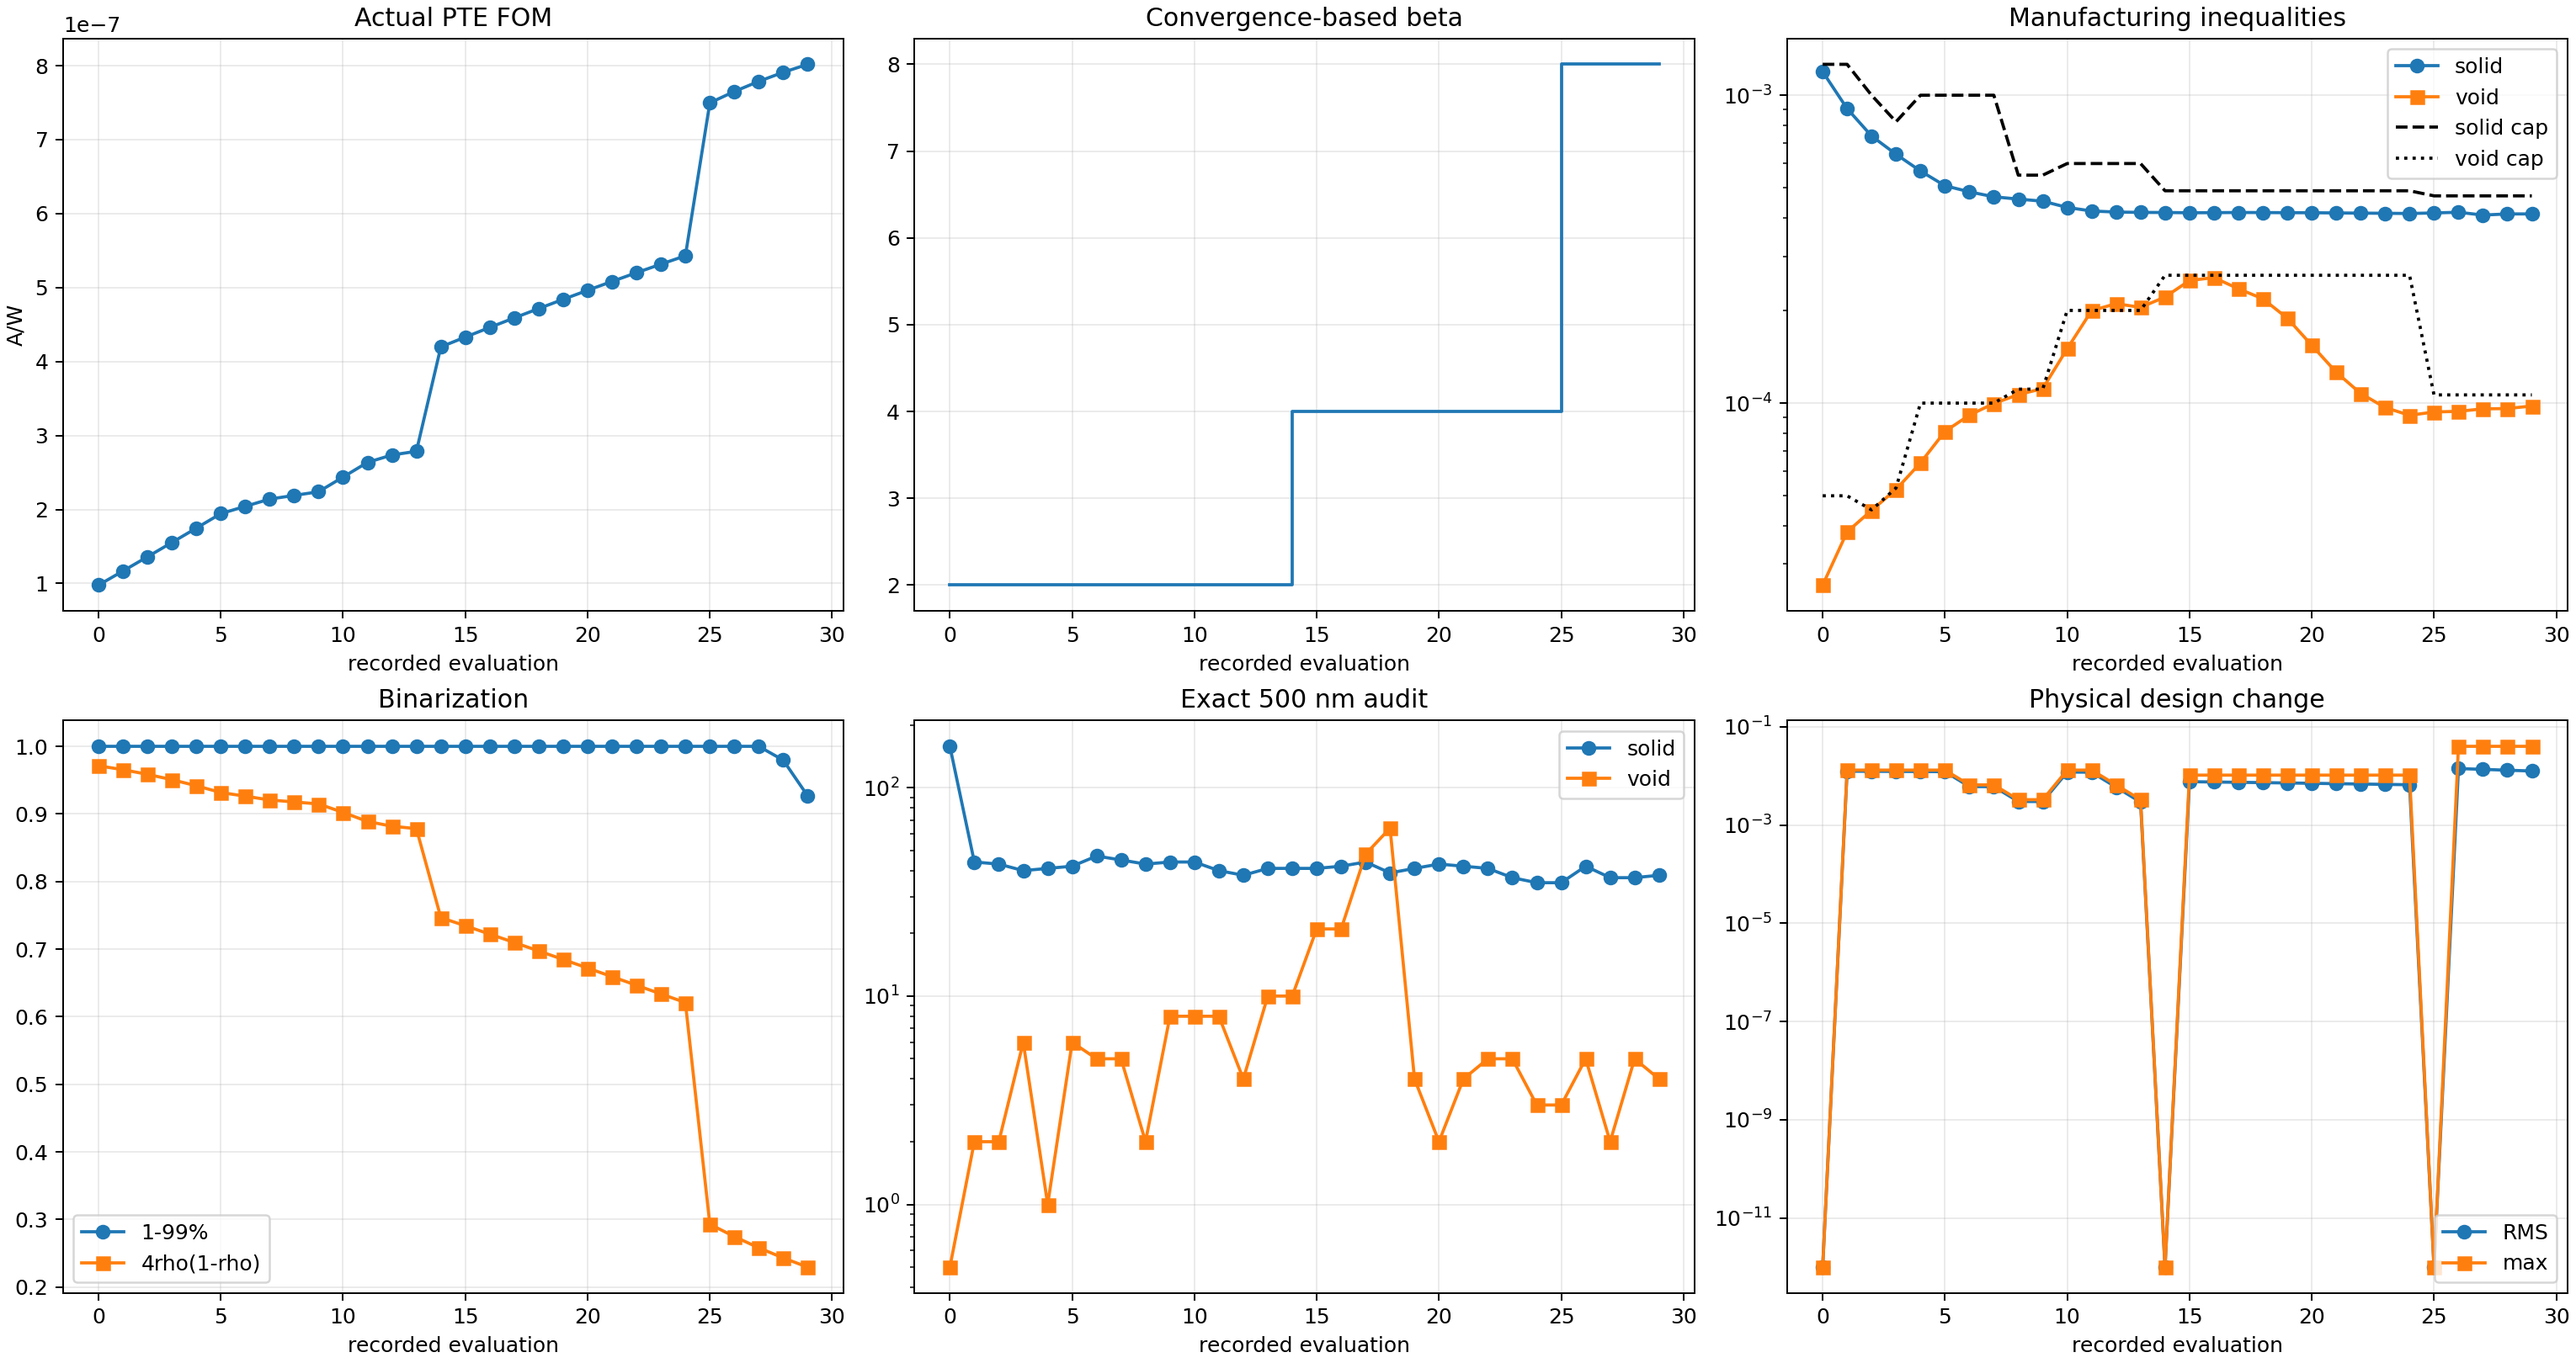
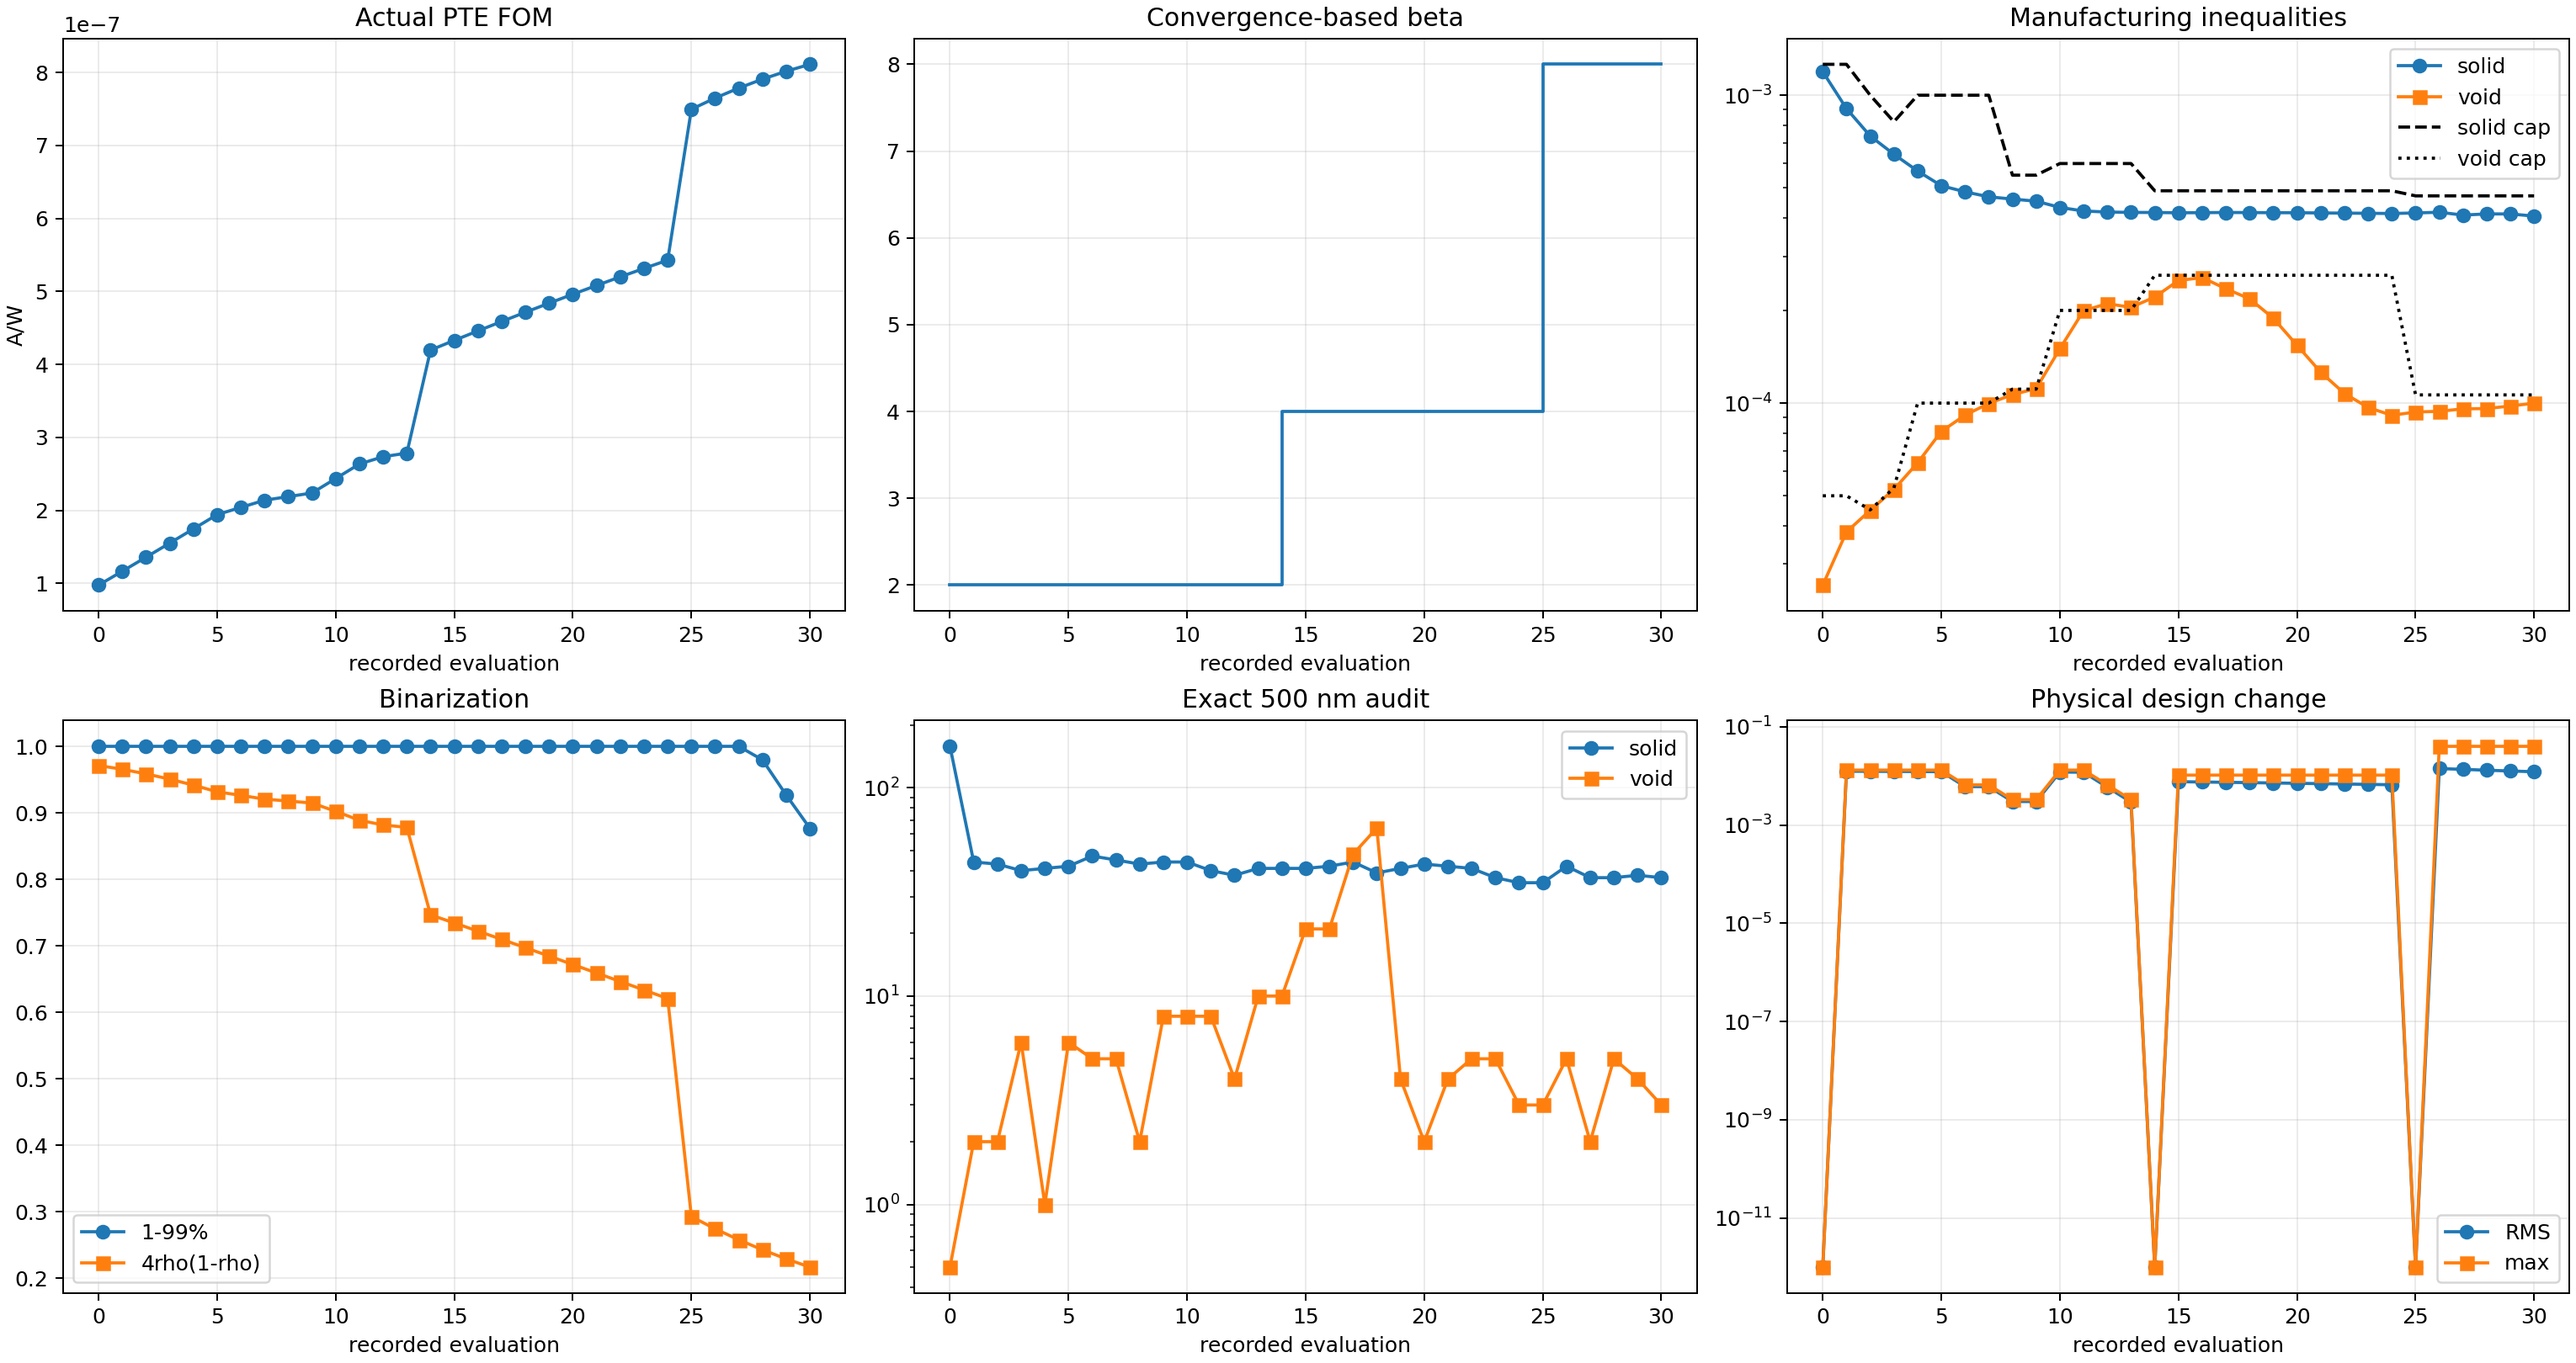
Record Run 005 run005_b008_s005_g028_accepted_mma

diff --git a/photothermal_pte/optimization_runs/run_005_lowbeta_topology_exploration_pilot/results/OPTIMIZATION_REPORT.md b/photothermal_pte/optimization_runs/run_005_lowbeta_topology_exploration_pilot/results/OPTIMIZATION_REPORT.md
@@ -2,12 +2,12 @@
 
 Status: `RUNNING_RUN005_FULL_BINARY_BETA_CONTINUATION`
 
-Current stage: beta=8, accepted stage iteration=4, global iteration=27.
+Current stage: beta=8, accepted stage iteration=5, global iteration=28.
 
 Constraint contract: `soft_disk_opening_500nm_from_iteration_zero_v5`.
 
-Actual FOM: `8.017956157975e-07 A/W`. Fixed-cap solid/void constraints: `4.115414e-04` / `9.785911e-05` with caps `4.711417e-04` / `1.063306e-04`.
+Actual FOM: `8.112793042883e-07 A/W`. Fixed-cap solid/void constraints: `4.049567e-04` / `9.993614e-05` with caps `4.711417e-04` / `1.063306e-04`.
 
-Exact 500 nm bad cells: solid `38`, void `4`. Stage convergence: `False` (need at least 6 accepted updates).
+Exact 500 nm bad cells: solid `37`, void `3`. Stage convergence: `False` (need at least 6 accepted updates).
 
 Beta advances only after the stage FOM/density plateau. The run is not complete until the projected-binary and exact 500 nm gates pass and a fresh thresholded-binary GPU/CUDA evaluation succeeds.
